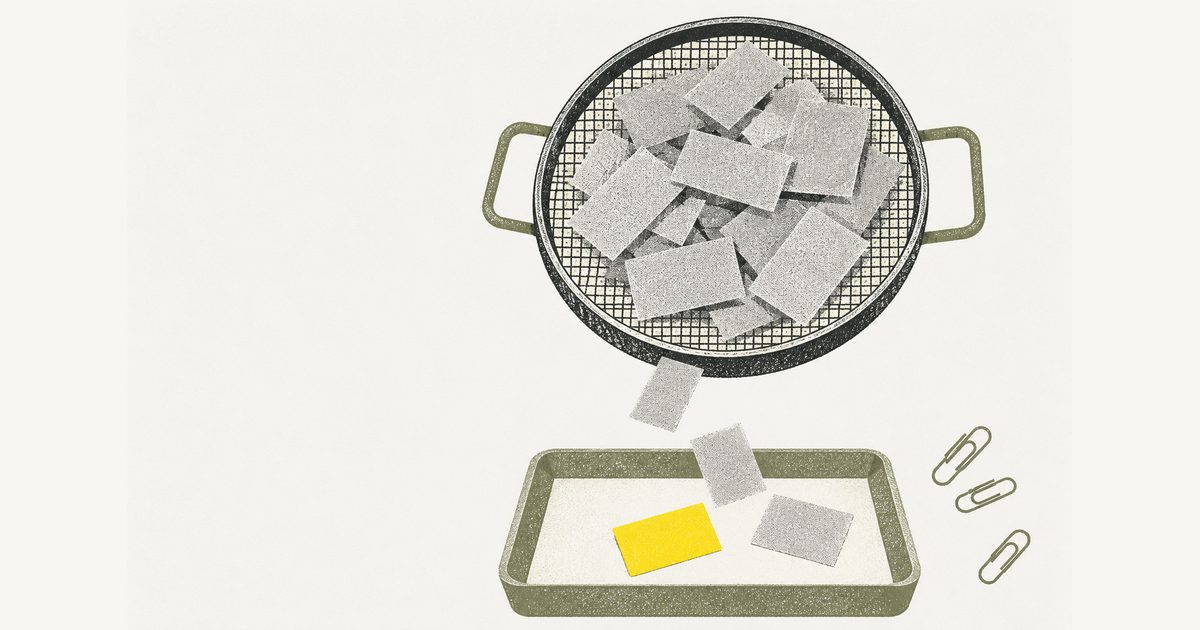
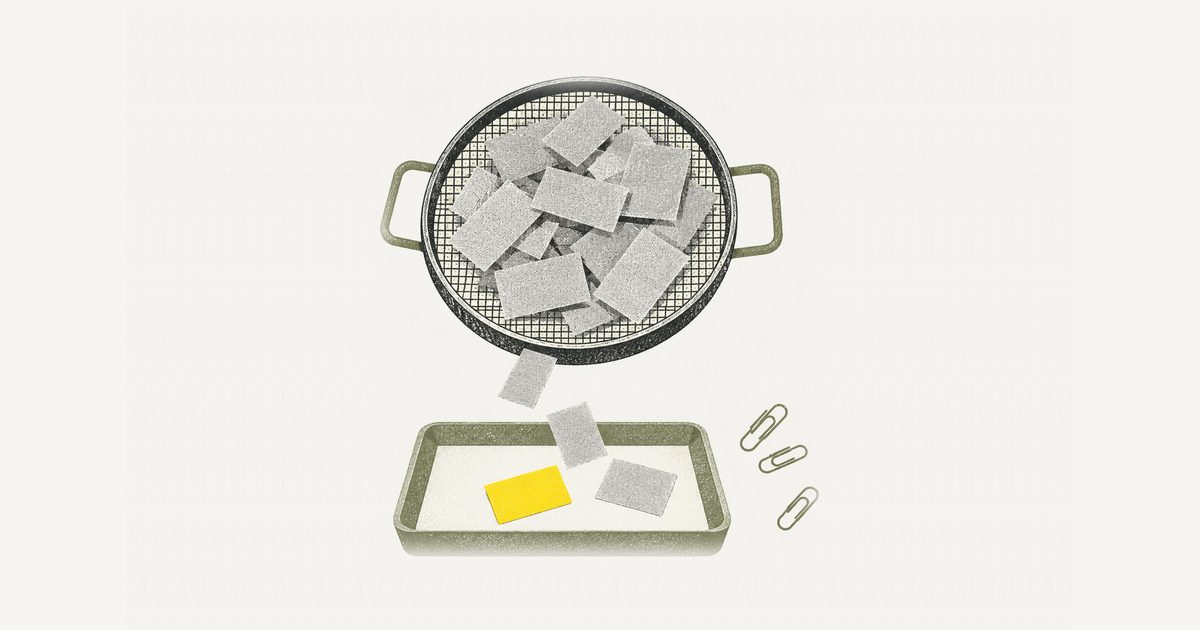
Обложки: рисунок по центру (скрипт сам находит рисунок, края — та же бумага с мягким стыком)

Changed region(s): [[0.3083, 0.0302, 0.8633, 0.9952], [0.8017, 0.8444, 0.8633, 0.9349]]

diff --git a/scripts/article-cover.py b/scripts/article-cover.py
@@ -24,6 +24,38 @@ out = R / 'images/articles'; out.mkdir(parents=True, exist_ok=True)
 im = Image.open(src).convert('RGB')
 
 
+def centre(img, margin=0.10):
+    """Find the drawing on the flat paper background and put it in the middle of a 3:2 canvas."""
+    from PIL import ImageChops
+    bg = img.getpixel((4, 4))
+    diff = ImageChops.difference(img, Image.new('RGB', img.size, bg)).convert('L').point(lambda v: 255 if v > 28 else 0)
+    box = diff.getbbox()
+    if not box:
+        return img
+    pad = 30
+    box = (max(0, box[0] - pad), max(0, box[1] - pad), min(img.width, box[2] + pad), min(img.height, box[3] + pad))
+    art = img.crop(box)
+    W = max(art.width / (1 - 2 * margin), art.height * 1.5 / (1 - 2 * margin))
+    H = W / 1.5
+    # Base = an empty strip of the same paper (keeps the grain), art pasted with soft edges.
+    from PIL import ImageFilter
+    blank = [x for x in range(0, img.width - 40, 20) if not diff.crop((x, 0, x + 40, img.height)).getbbox()]
+    strip = img.crop((blank[0], 0, blank[0] + 40, img.height)) if blank else Image.new('RGB', (40, img.height), bg)
+    canvas = Image.new('RGB', (round(W), round(H)), bg)
+    for x in range(0, canvas.width, 40):
+        for y in range(0, canvas.height, img.height):
+            canvas.paste(strip, (x, y))
+    feather = max(8, round(min(art.size) * 0.04))
+    mask = Image.new('L', art.size, 0)
+    mask.paste(255, (feather, feather, art.width - feather, art.height - feather))
+    mask = mask.filter(ImageFilter.GaussianBlur(feather / 2))
+    canvas.paste(art, ((canvas.width - art.width) // 2, (canvas.height - art.height) // 2), mask)
+    return canvas
+
+
+im = centre(im)
+
+
 def fit(w, h):
     r = max(w / im.width, h / im.height)
     x = im.resize((round(im.width * r), round(im.height * r)), Image.LANCZOS)
